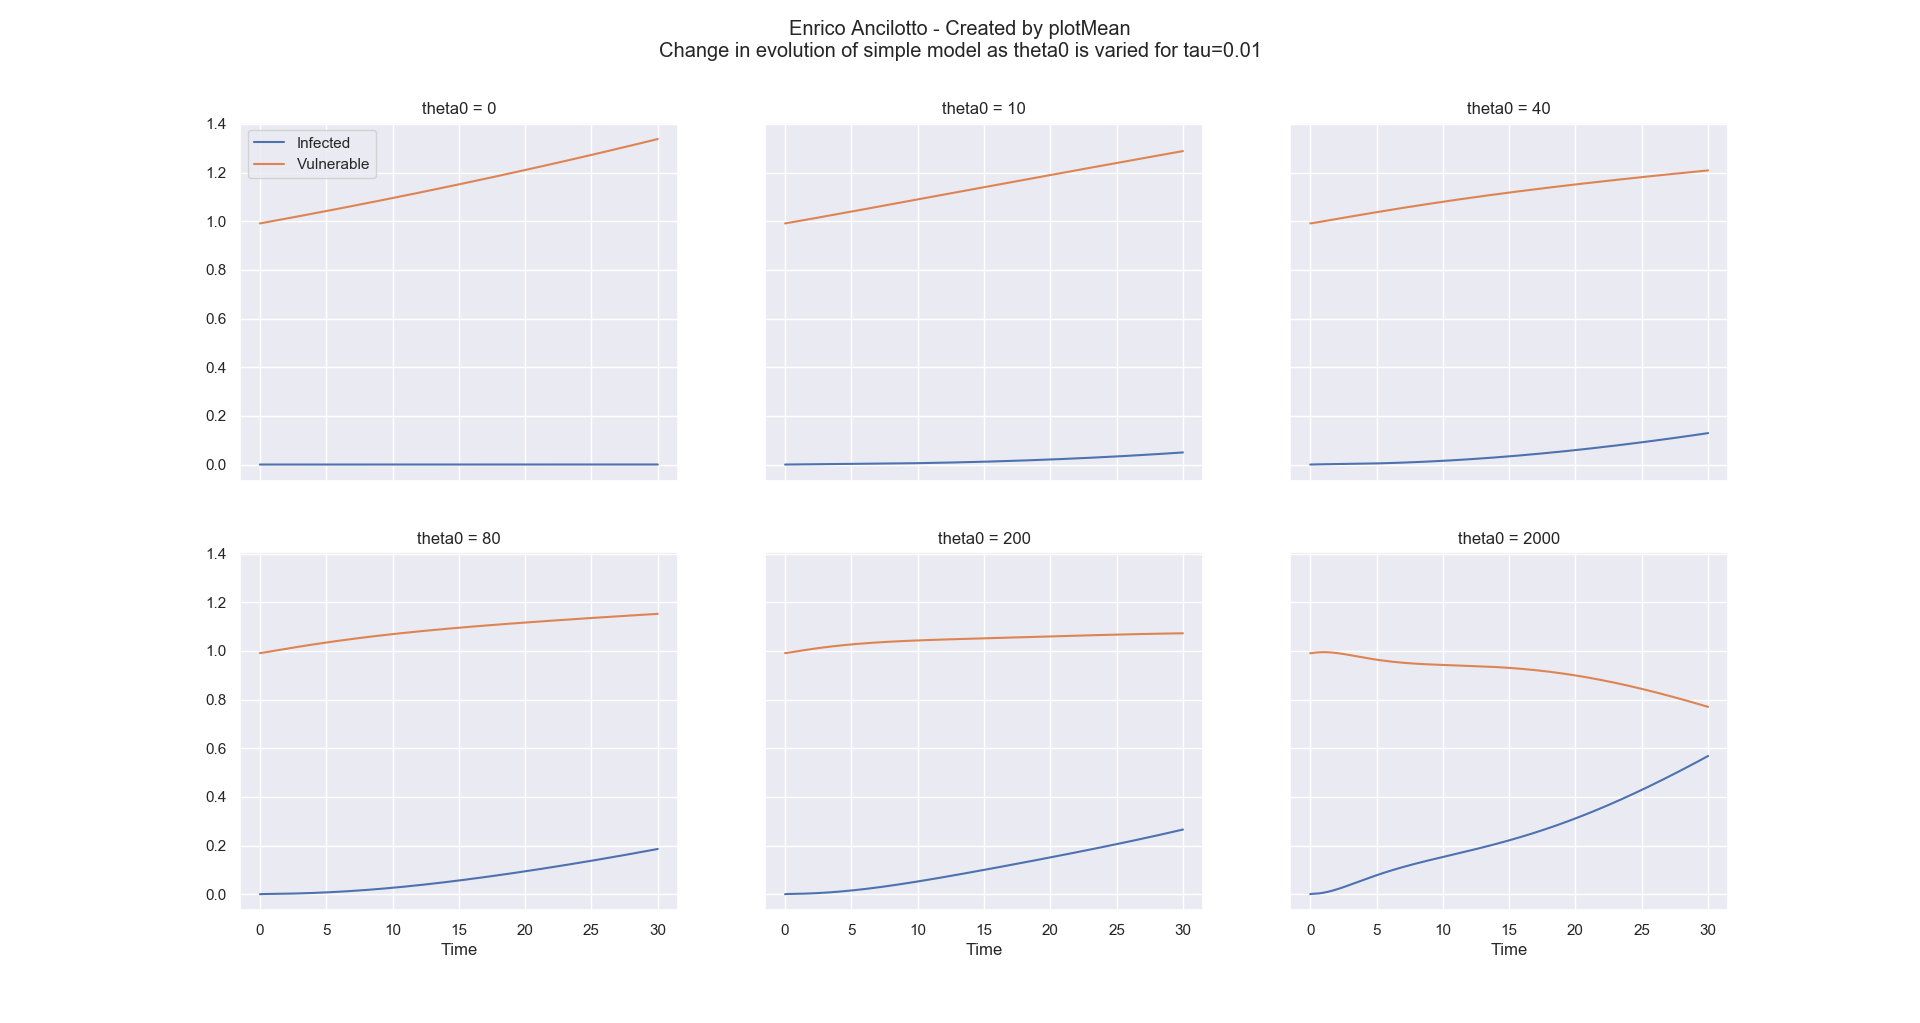
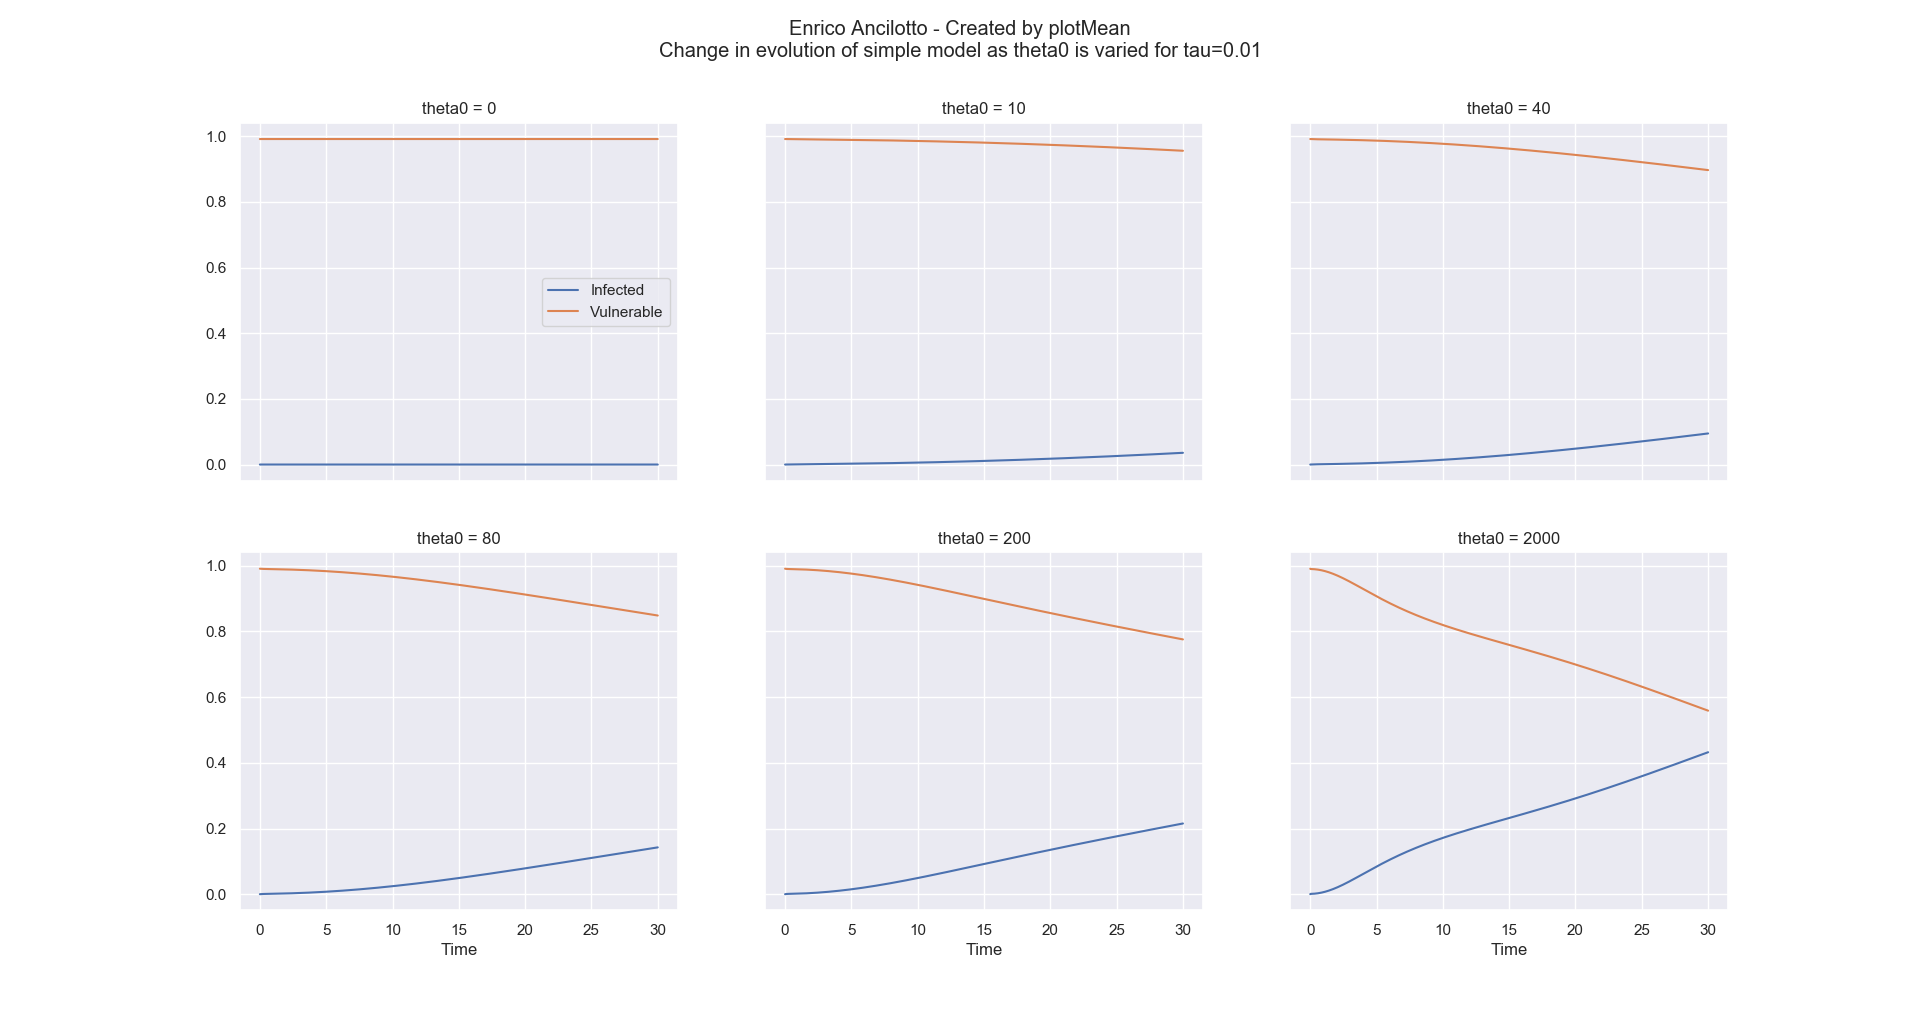
Finished analysis

diff --git a/part2/p2.py b/part2/p2.py
@@ -15,6 +15,21 @@ class util:
         G=nx.barabasi_albert_graph(100,5)
         return G
 
+    @staticmethod
+    def test(percentile):
+        total = 0
+        for i in range(1000):
+            G=nx.barabasi_albert_graph(100,5)
+            nodeDegrees = sorted(G.degree, key=lambda x: x[1])
+            total += nodeDegrees[percentile][1]
+        print(total)
+
+    @staticmethod
+    def getG2():
+        G=nx.Graph()
+        G.add_node(0)
+        return G
+
 def model1(G,x=0,params=(50,80,105,71,1,0),tf=6,Nt=400,display=False):
     """
     Question 2.1
@@ -78,12 +93,12 @@ def getB(A, params):
         scaling = 0 if sumqA == 0 else tau / sumqA 
         for i in range(n):
             F[i,j] = scaling * q[i]*A[i,j]
-    
     del A   #no longer needed
     B = sp.block_diag((F,F,F), format="lil")
-    del F
+    #del F
     del q
-    B.setdiag(np.concatenate((-tau-g-k, -tau-k-a, -tau-k),axis=None))
+    #The tau term is given by sum F_ji = tau
+    B.setdiag(np.concatenate((np.zeros(n)-tau-g-k, np.zeros(n)-tau-k-a, np.zeros(n)-tau-k),axis=None))
     B.setdiag([a]*n, n)
 
     return B.tocsr()       #csr is optimised for matrix-vector multiplication
@@ -115,7 +130,7 @@ def modelN(G,x=0,params=(50,80,105,71,1,0.01),tf=6,Nt=400,display=False):
     doublepi = 2*np.pi
 
     B = getB(A, params)
-    global dy
+    global dy   #broadcast dy and thetaSV
     global thetaSV
     dy = np.zeros(3*n)
     thetaSV = np.zeros(n)
@@ -128,7 +143,32 @@ def modelN(G,x=0,params=(50,80,105,71,1,0.01),tf=6,Nt=400,display=False):
         V on nodes 0 to N-1, respectively.
         output: dy: also a 3N x 1 array corresponding to dy/dt
 
-        Discussion: add discussion here
+        Discussion: The number of operation is kept at a minimum as B is a sparse
+        matrix. dy and thetaSV are pre-allocated to avoid expensive memory allocation
+        operations. Calculating theta is a very straight-forward operation, the 
+        only expensive operation is computing sin which takes about an order of
+        magnitude longer than all other operations. In any case this is a constant
+        time operation so for large networks it won't affect runtime.
+        Calculating thetaSV requires 2 multiplications for each node, so 2*n 
+        operations, and adding it to dy at the end needs 3 additions per node. 
+
+        Finally as B is a sparse matrix, it only performs the number of operations
+        it requires, so 1 multiplication and 1 addition for each non-zero entry
+        of B. We have 3n elements on the main diagonal, and another n terms given
+        by alpha*I in the expression for dS/dt. We then have two entries for every
+        edge given by the adjacency matrix. Potentially this could be an O(n^2) term,
+        but more likely (eg in Barabasi-Albert graphs) it will be O(n), let's assume
+        it is kn. This gives us an estimate of:
+        (6+k)n multiplications
+        (7+k)n additions
+        As Python is an interpreted language, it requires expensive type-checks 
+        however the code is vectorised giving us only a few of those per function-call
+        so we can disregard them. There is also the time needed for the various
+        memory accesses which is a lot harder to estimate and depends on the 
+        exact implementation of the various functions, but it can hardly be more 
+        than three per arithmetic operation (2 operands to be called and saving 
+        the result). Giving us a further 3(13+2k)n operations.
+        The total is then in the order of 4(13+2k)n operations
         """
         global dy       #using pre-allocation from before
         global thetaSV
@@ -149,6 +189,7 @@ def modelN(G,x=0,params=(50,80,105,71,1,0.01),tf=6,Nt=400,display=False):
     y = odeint(RHS, y0, tarray)
     Smean = y[:, :n].mean(axis = 1)
     Svar = y[:, :n].var(axis = 1)
+
     if display:
         plt.plot(tarray,Smean)
         plt.show()
@@ -157,6 +198,9 @@ def modelN(G,x=0,params=(50,80,105,71,1,0.01),tf=6,Nt=400,display=False):
     return Smean,Svar
 
 def getInfected(I,tolerance=1e-10):
+    """
+    Returns the number of nodes that have at least tolerance infected cells
+    """
     infected = np.where(I > tolerance,1,0)
     infectedCount = infected.sum(axis=1)
     return infectedCount
@@ -174,15 +218,6 @@ def modelNQ3(G,x=0,theta0=80,tau=0.01,tf=6,Nt=400):
     thetaSV = np.zeros(n)
 
     def RHS(y,t):
-        """Compute RHS of model at time t
-        input: y should be a 3N x 1 array containing with
-        y[:N],y[N:2*N],y[2*N:3*N] corresponding to
-        S on nodes 0 to N-1, I on nodes 0 to N-1, and
-        V on nodes 0 to N-1, respectively.
-        output: dy: also a 3N x 1 array corresponding to dy/dt
-
-        Discussion: add discussion here
-        """
         global dy       #using pre-allocation from before
         global thetaSV
         thetaSV = theta0*y[:n]*y[doublen:]
@@ -250,7 +285,7 @@ def linearDiffusionExact(G,x=0,tau=0.01,tf=6,Nt=400):
     return yComplete
 
 def plotMean(data, tarray, thetas, tau):
-    Imean, Vmean, IvarLinear, VvarLinear = data
+    Imean, Vmean = data
     f,axes = plt.subplots(2,3,sharex=True,sharey=True)
     axes = axes.flatten()
     f.suptitle('Enrico Ancilotto - Created by plotMean\nChange in evolution of simple model as theta0 is varied for tau='+str(tau))
@@ -305,17 +340,17 @@ def plotComprehensive(percentiles,Nt,tf,theta0,tau,m):
     for percentile in percentiles:
         data.append(getData(percentile,Nt,tf,theta0,tau,m))
     print()
-    titles = ["Variability of Infected","Number of Infected Nodes","Number of Sick Nodes"]
-    ylabels = ["Variability", "Number", "Number"]
+    titles = ["Variance of Infected","Number of Infected Nodes","Number of Sick Nodes"]
+    ylabels = ["Variance", "Number", "Number"]
     for i in range(3):
         f,axes = plt.subplots(len(percentiles),sharex=True)
-        f.suptitle("Enrico Ancilotto - Created by plotComprehensive\n"+titles[i]+" for tau="+str(tau))
+        f.suptitle("Enrico Ancilotto - Created by plotComprehensive\n"+titles[i]+" for theta0="+str(theta0))
         lI=None
         lV=None
         for j in range(len(percentiles)):
             lI,=axes[j].plot(tarray,data[j][i])
             lV,=axes[j].plot(tarray,data[j][i+3])
-            axes[j].set_title("Node degree percentile: "+str(percentiles[j]))
+            axes[j].set_title("Start node degree percentile: "+str(percentiles[j]))
 
         plt.legend([lI, lV],["Simple model", "Linear Diffusion"])
         for ax in axes.flat:
@@ -324,16 +359,98 @@ def plotComprehensive(percentiles,Nt,tf,theta0,tau,m):
             ax.label_outer()
         plt.show()
 
+def plotSickLong(percentiles,Nt,tf,theta0,tau,m):
+    data = []
+    tarray = np.linspace(0,tf,Nt+1)
+    for percentile in percentiles:
+        data.append(getData(percentile,Nt,tf,theta0,tau,m))
+    print()
+    f,axes = plt.subplots(len(percentiles),sharex=True)
+    f.suptitle("Enrico Ancilotto - Created by plotSickLong\nNumber of sick nodes for theta0="+str(theta0))
+    lI=None
+    lV=None
+    for j in range(len(percentiles)):
+        axes[j].plot(tarray,data[j][2])
+        axes[j].set_title("Start node degree percentile: "+str(percentiles[j]))
+
+    for ax in axes.flat:
+        ax.set(xlabel='Time',ylabel="Number")
+    for ax in axes.flat:
+        ax.label_outer()
+    plt.show()
+
 def diffusion(input=(None)):
     """Analyze similarities and differences
     between simplified infection model and linear diffusion on
     Barabasi-Albert networks.
     Modify input and output as needed.
 
-    Discussion: add discussion here
+    Discussion: The first two figures show how changing parameters affects the evolution
+    of the simplified model. Tau only compresses the x-axis so we can fix it and keep
+    it constant. Theta0 determines how quickly vulnerable cells become infected. If
+    it is zero then the total amount of infected and vulnerable cells remains
+    constant and so will their average. Otherwise the vulnerable cells become infected 
+    at a faster rate as theta0 is increased, until 100% of the cells become infected.
+    It is interesting to note that at first the infection rate is slower as the 
+    infection spreads through the network, when the infection has reached every 
+    node it starts growing much faster, until it burns through the vulnerable cells
+    and slows down again.
+
+    The next figures compare the spread of the infection in the two models for two
+    different values of theta0: 0 and 80. A cell is considered infected if there
+    is any trace of the infection (ie I>10^-5) and sick if I is at least 10^-3. 
+    The two data points tell us where the infection has reached and where it is 
+    becoming more serious. The model is repeated changing the degree of the starting
+    node, from ~4 to ~11 to ~38.
+
+    In the first figures (3-5) theta0 is set to 80, this means that the simplified 
+    model will see the number of infected cells slowly growing (though an infection
+    rate of close to 100% is only reached after about 150 unit of times as can be
+    crudely approximated from figure 2). We can see how the degree of the starting
+    node strongly affects how quickly the variance of the linear model goes to 0,
+    while it makes hardly any difference to the simplified model: in the latter 
+    case nodes with higher degree will spread the infection to more nodes but at 
+    a slower pace. The variance of the linear diffusion model decreases much faster
+    and asymptotically reaches zero, while in the simple model we don't approach 
+    zero: eventually 100% of the cells will be infected but they will cluster on
+    the nodes with highest degree.
+
+    In figure 4 we get a better idea of how the infection spreads: there are three
+    points at which the infection plateaus: call them A, B, and C. A corresponds 
+    to the degree of the starting node, C is the total number of nodes, while B
+    is somewhere in between getting bigger as the degree of the starting number is
+    increased and all but disappearing in the 99-th percentile case. Both models
+    reach A extremely quickly. The simple model then grows in a pseudo-logistic 
+    way between A and B and again between B and C. On the other hand the linear 
+    diffusion moves between A and B in discrete jumps, before also growing 
+    pseudo-logistically between B and C.
+
+    In figure 5 we again see three distinct plateaus for the simple model (the
+    behaviour of the linear model will be analysed in the discussion for figure
+    8). Furthermore the three plateaus are the same as in figure 4 and give us a
+    better idea of what B represents: it seems to be the number of neighbours
+    of neighbours of the starting node. The infection spreads to the first ring 
+    of neighbours, before stopping until it has grown enough to spread to the 
+    second ring and then repeating the process between B and C.
+
+    Figures 6 through 8 cover the case where theta0=0. The timescale is increased
+    but otherwise the linear model will behave in the exact same way. In figure 
+    6 we again see the variability approaching a small but non-zero number for the
+    simple model as the small starting number of infected cells is spread between 
+    the nodes. Figure 7 also shows a similar behaviour as before, albeit at a much
+    slower pace.
+
+    In figure 8 and 9 we get a better sense of the main difference between the 
+    two models: the linear model quickly reaches a peak number of sick nodes given
+    by the minimum between the degree of the starting node and the maximum sustainable
+    sick population which seems to be about 12. It then decreases back to zero 
+    at a speed which increases as the degree increases. In figure 9 (which is just
+    figure 8 with a longer simulation time) we see how the simple model instead
+    slowly asymptotically approaches the same limit as the maximum sustainable sick 
+    population from before and levels off there.
+    
     """
-    theta0 = 80
-    m=20
+    m=5
     n=100
     Nt=2000
     tf=30
@@ -355,22 +472,19 @@ def diffusion(input=(None)):
                 Imean[j] += y[:, n:2*n].mean(axis = 1)
                 Vmean[j] += y[:, 2*n:].mean(axis = 1)
             y = linearDiffusion(G,x=0,Nt=Nt,tf=tf,tau=tau)
-            IvarLinear += y[:, n:2*n].var(axis = 1)
-            VvarLinear += y[:, n:2*n].var(axis = 1)
         Imean /= m
         Vmean /= m
-        IvarLinear /= m
-        VvarLinear /= m
-        return Imean, Vmean, IvarLinear, VvarLinear
+        return Imean, Vmean
 
     plotMean(getMeans(0.1),tarray,thetas,0.1)
     plotMean(getMeans(0.01),tarray,thetas,0.01)
+
     print("")
     """
     percentiles = [0,75,99]
-    plotComprehensive(percentiles,Nt,tf,theta0,0.01,m)
-    plotComprehensive(percentiles,Nt,tf,theta0,0.1,m)
-
+    #plotComprehensive(percentiles,Nt,30,80,0.01,m)
+    #plotComprehensive(percentiles,Nt,200,0,0.01,m)
+    plotSickLong(percentiles,Nt,1000,0,0.01,m)
     return None #modify as needed
 
 
